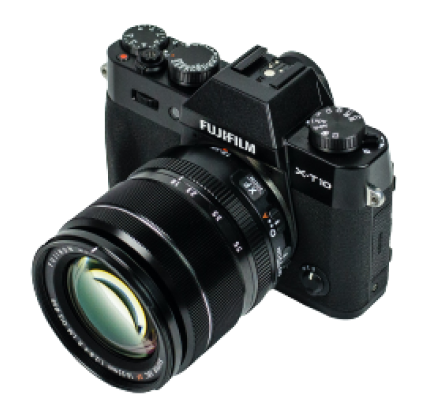
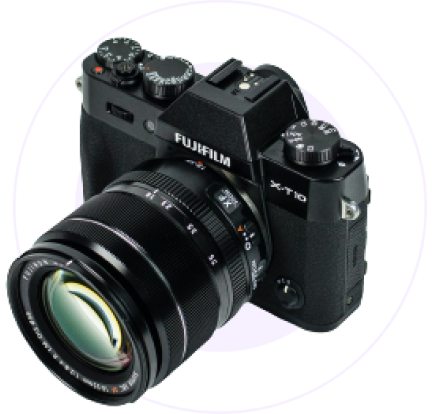
hero done

diff --git a/style.css b/style.css
@@ -10,7 +10,7 @@ header{
 }
 
 nav{
-    width: 1150px;
+    width: 1200px;
     height: 150px;
     margin: 0 auto;
     display: flex;
@@ -41,3 +41,39 @@ nav ul li a{
 
 /* main section start here */
 
+/* hero section start here */
+
+.hero{
+    width: 1150px;
+    margin: 0 auto;
+    display: flex;
+    align-items: center;
+}
+
+.heding{
+    margin-right: 50px;
+}
+
+.heding h2{
+    font-size: 52px;
+}
+.heding-img img{
+    width: 475px;
+    height: 475px;
+    margin: 50px;
+}
+
+.btn{
+    background-color: #E02C6D;
+    color: white;
+    padding: 10px 24px;
+    border-radius: 40px;
+    margin: 16px 0;
+    border: none;
+}
+
+.btn i{
+    margin-left: 10px;
+}
+
+/* company start here */

diff --git a/index.html b/index.html
@@ -36,6 +36,21 @@
       </nav>
     </header>
 
-    
+    <main>
+      <section class="hero">
+        <div class="heding">
+          <h2>Start your Journey as Influencer</h2>
+          <p>
+            Lorem ipsum dolor sit amet consectetur adipisicing elit. Omnis ipsam
+            necessitatibus, deleniti doloribus ab pariatur!
+          </p>
+          <button class="btn">Prebook now <i class="fa-solid fa-arrow-right"></i></button>
+        </div>
+        <div class="heding-img">
+            <img src="./images/main-camera.png" alt="" />
+        </div>
+      </section>
+      
+    </main>
   </body>
 </html>
